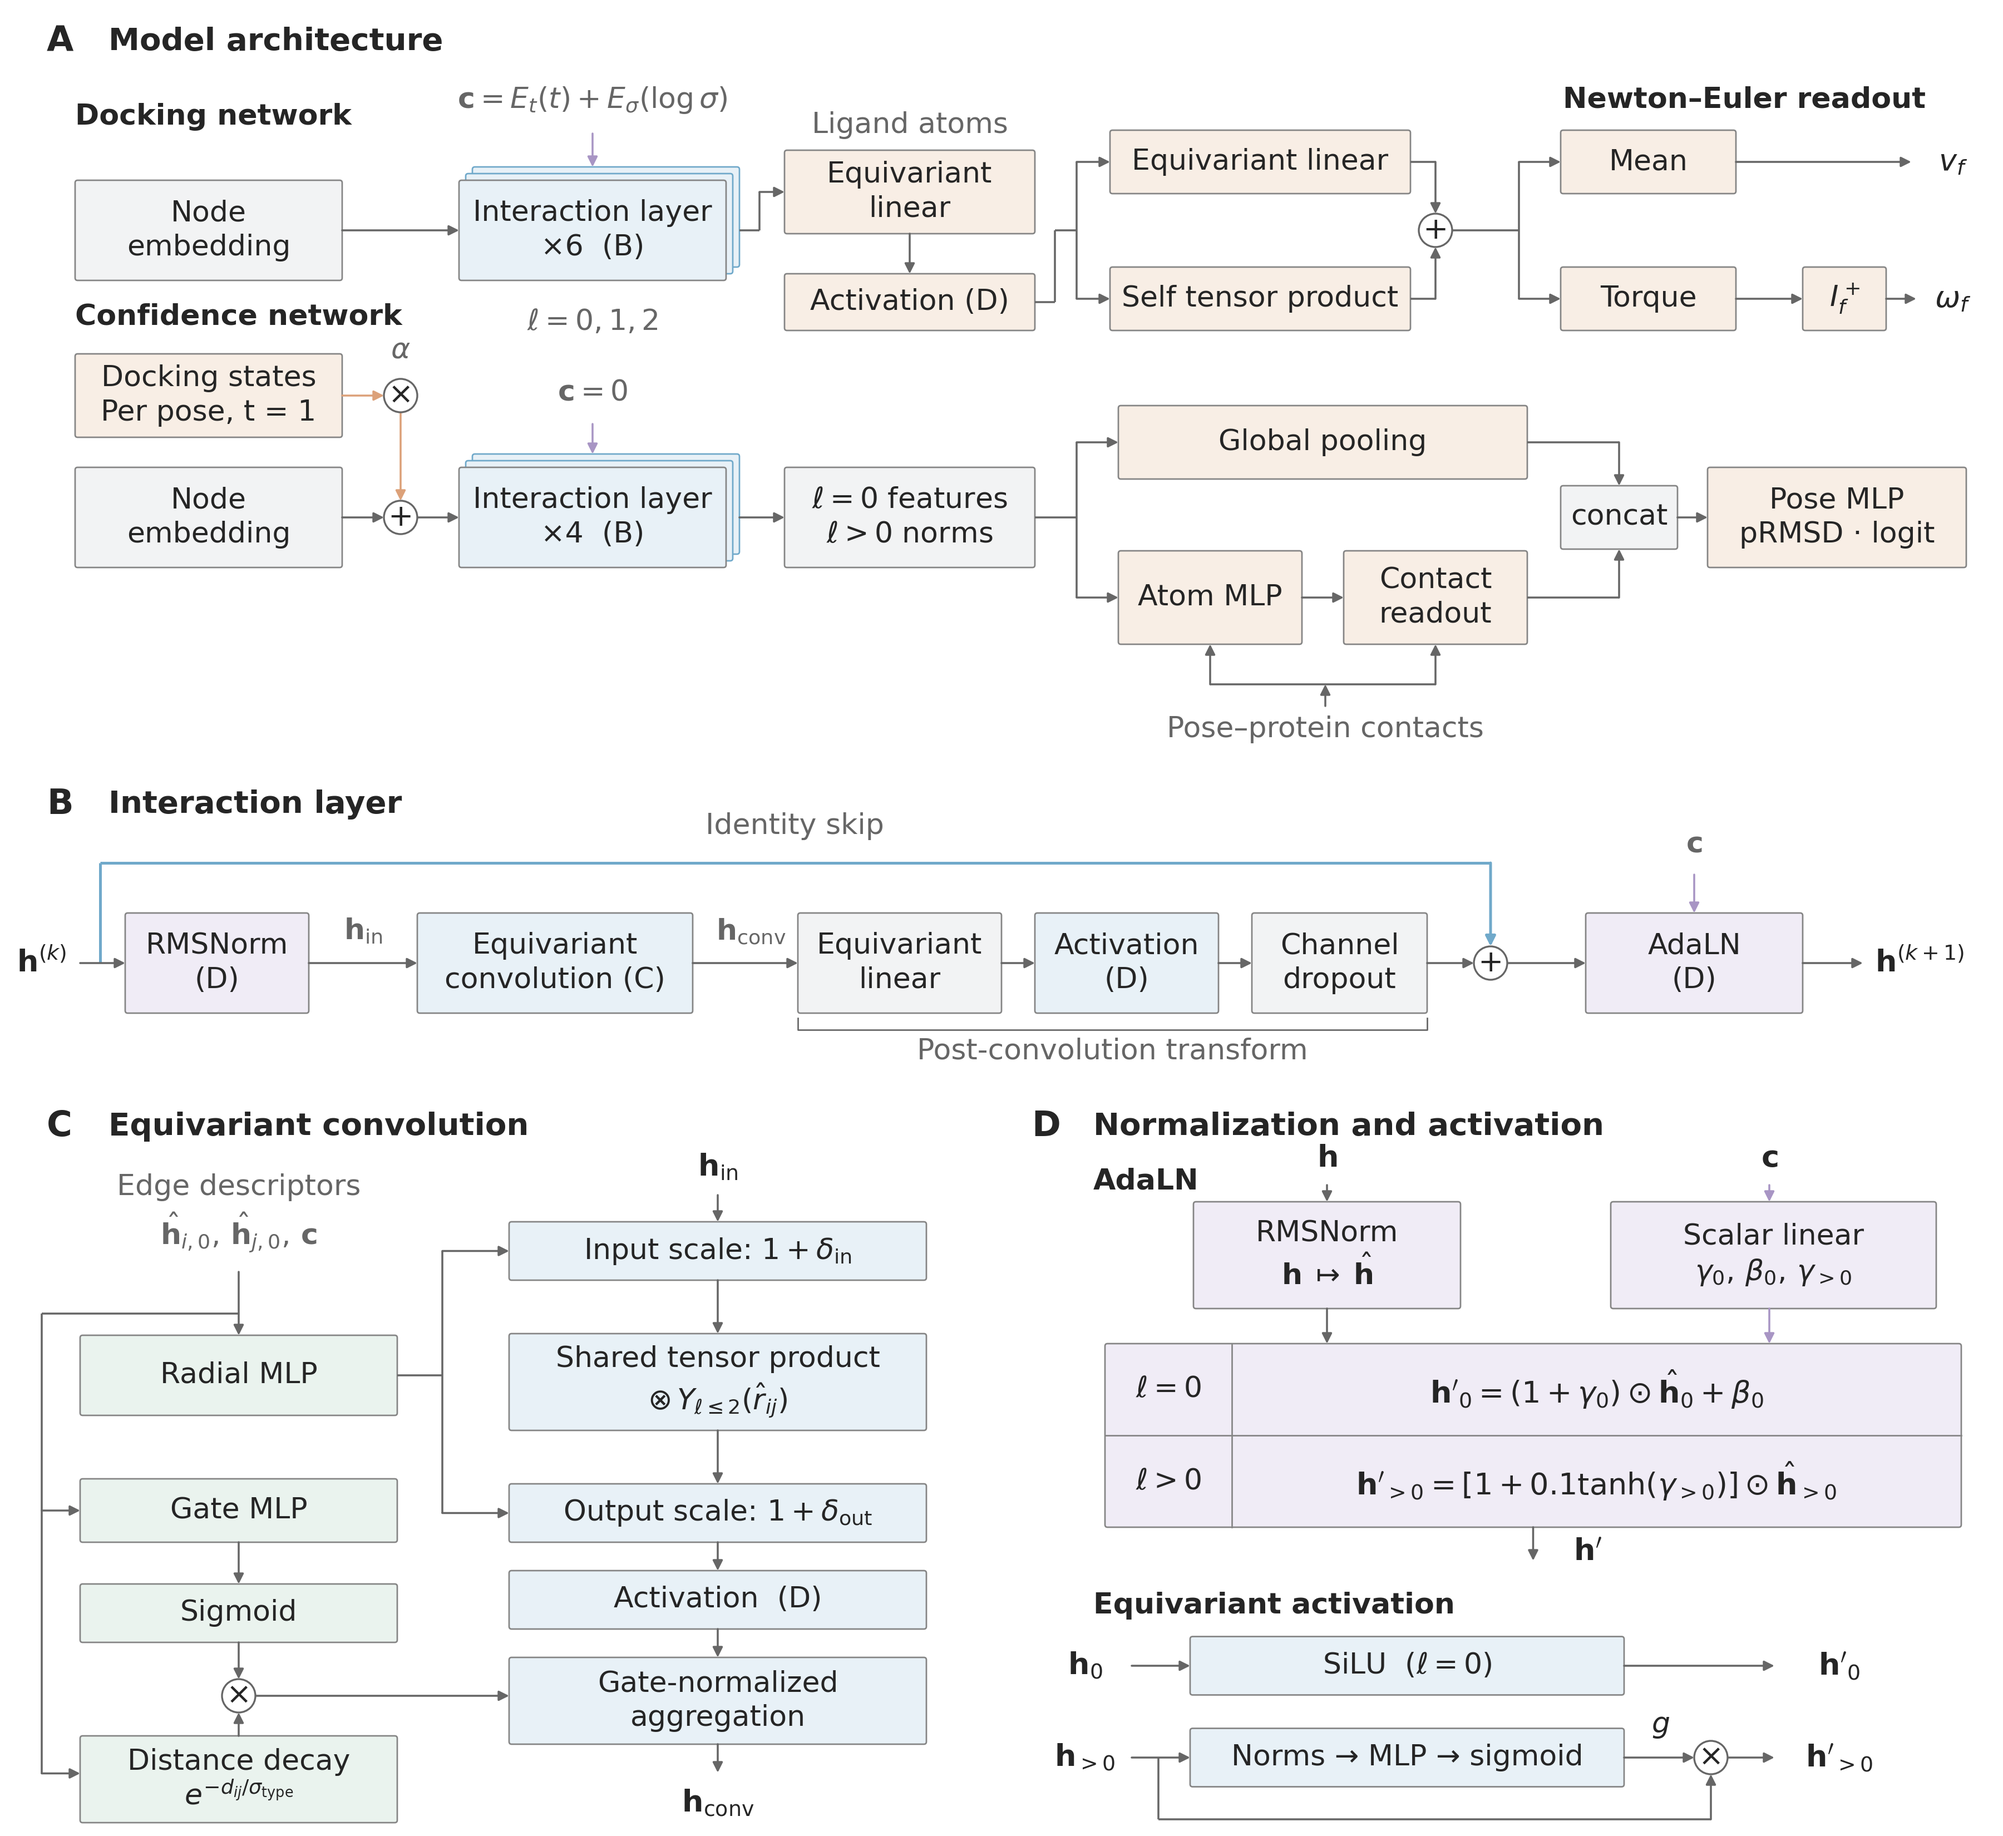
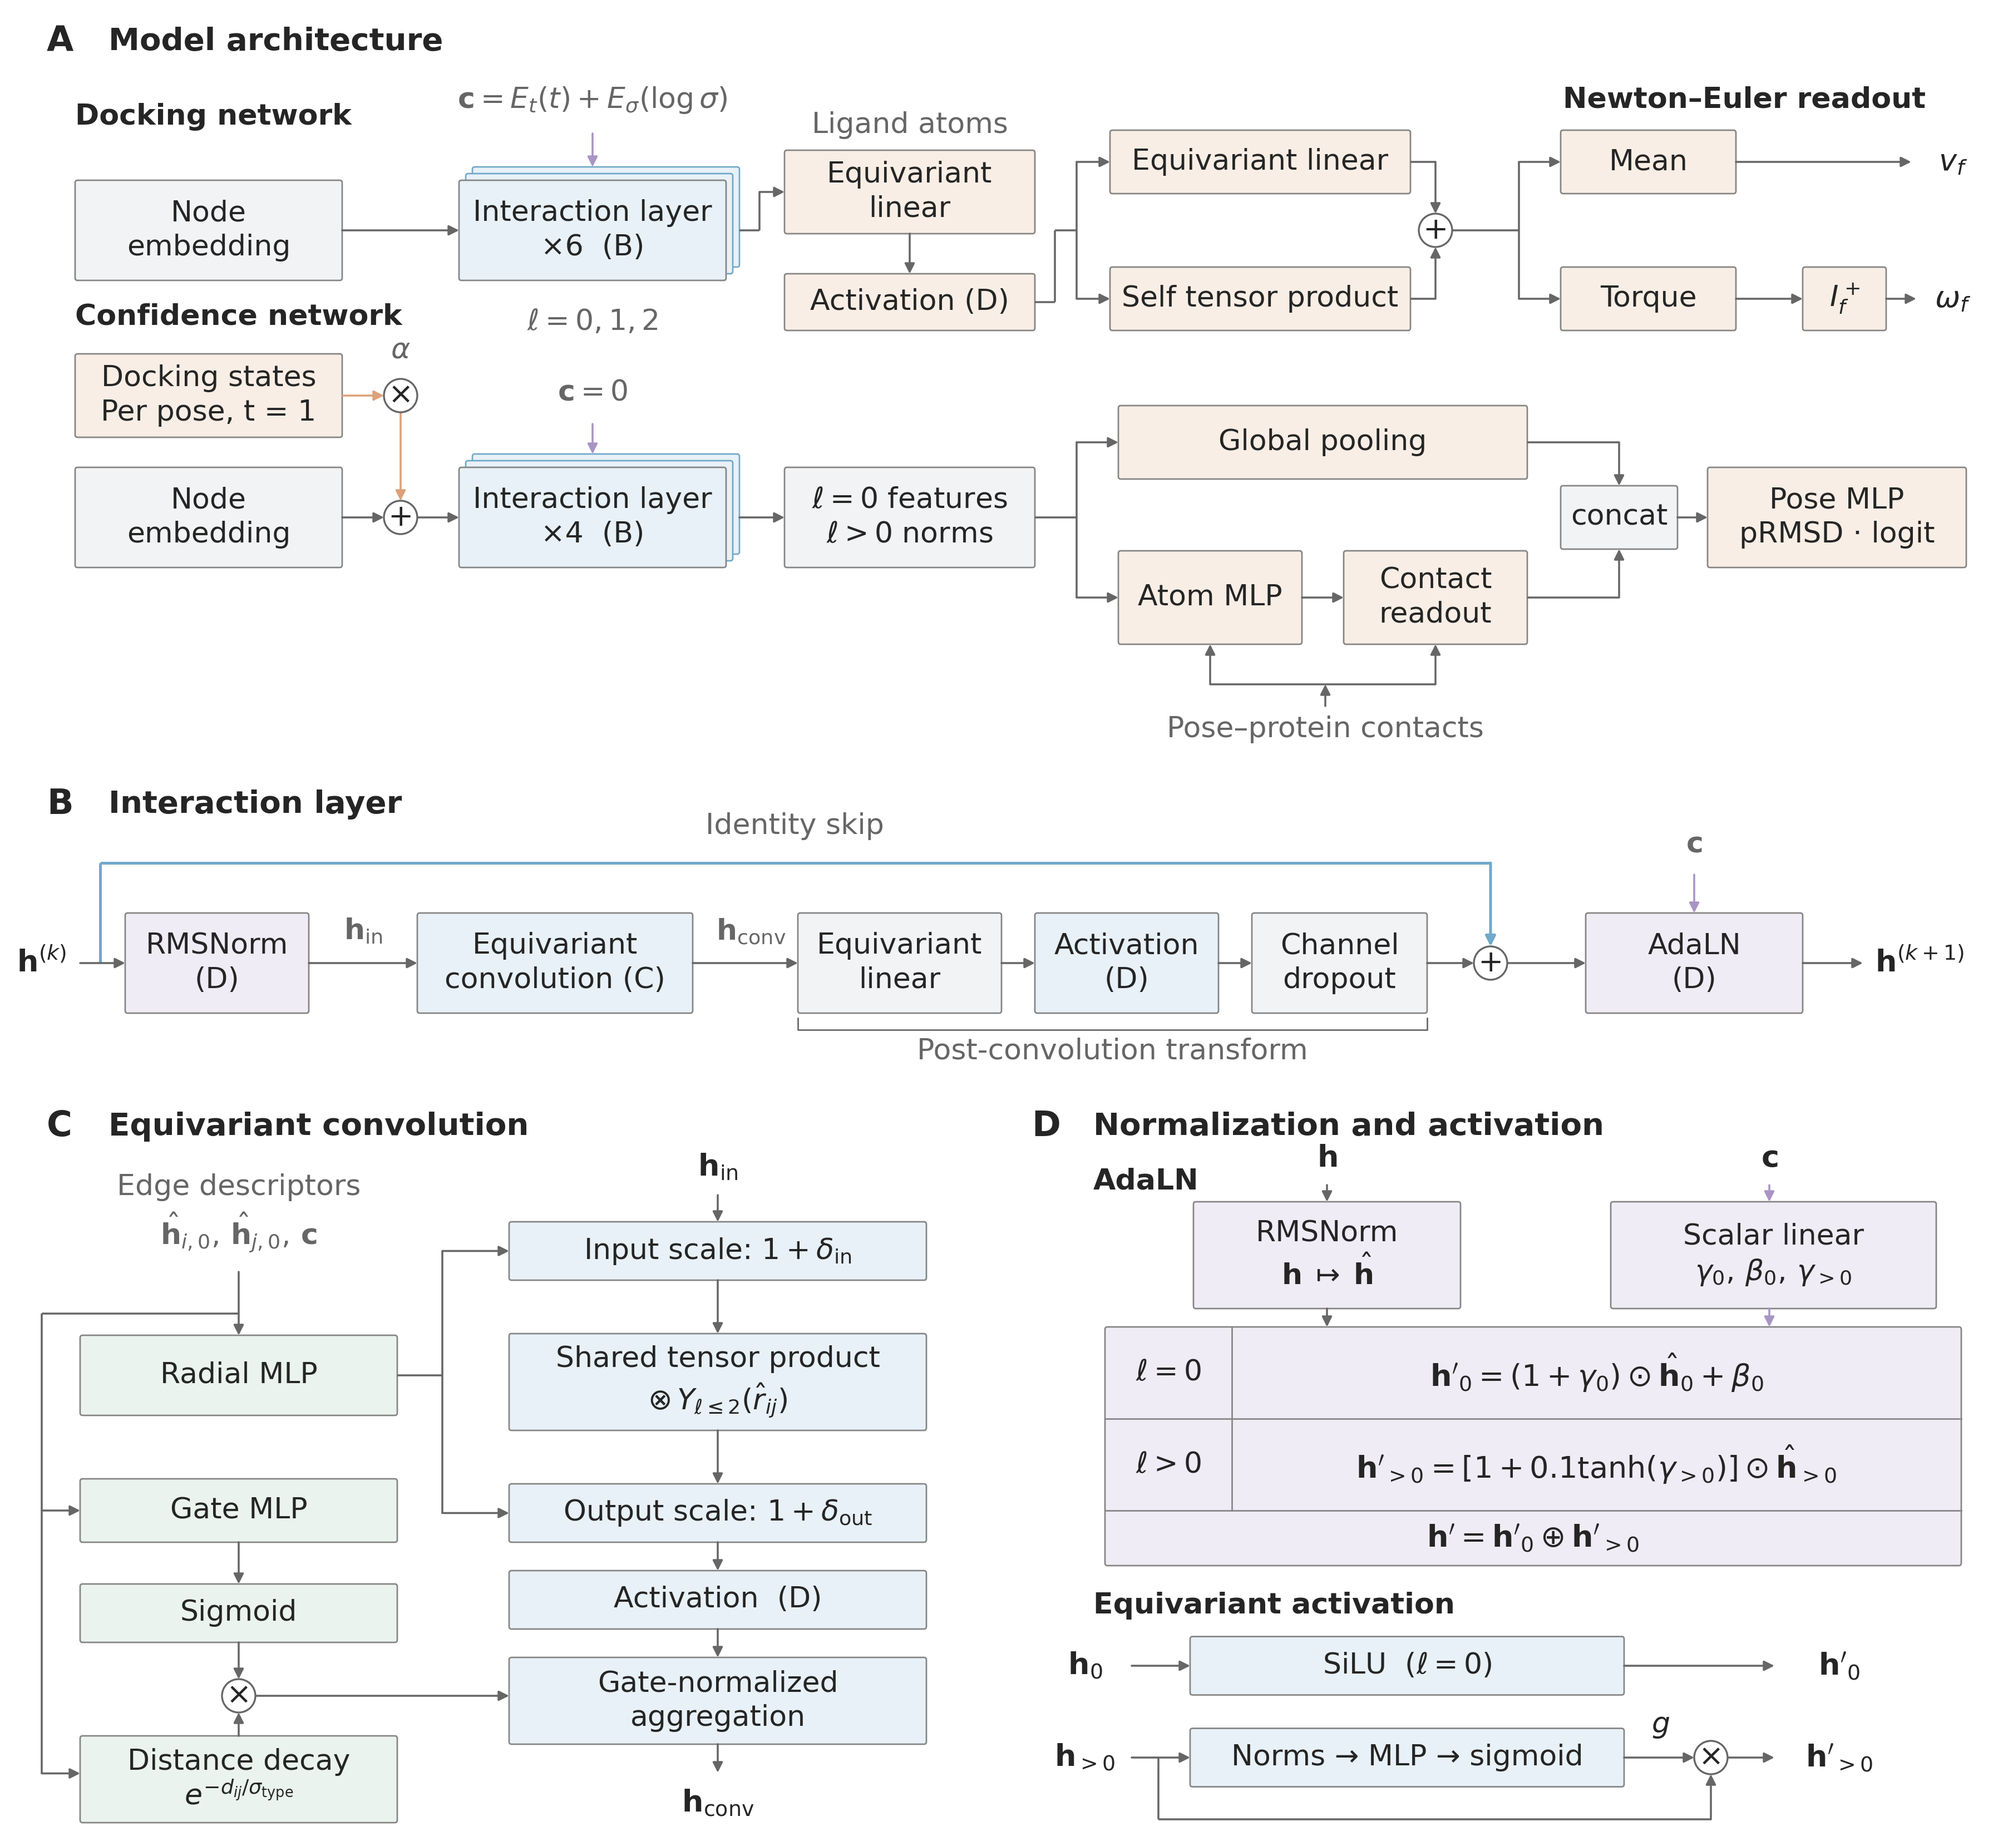
docs: clarify complete AdaLN output in panel D

diff --git a/benchmarks/figures/architecture.py b/benchmarks/figures/architecture.py
@@ -294,22 +294,23 @@ def operations_panel(c, s):
     c.block(7.15, 3.16, 1.60, 0.64, "RMSNorm\n" + r"$\mathbf{h}\;\mapsto\;\hat{\mathbf{h}}$", PALE_VIOLET)
     c.block(9.65, 3.16, 1.95, 0.64,
             "Scalar linear\n" + r"$\gamma_0,\,\beta_0,\,\gamma_{>0}$", PALE_VIOLET)
-    c.arrow([(7.95, 3.16), (7.95, 2.95)])
-    c.arrow([(10.60, 3.16), (10.60, 2.95)], color=VIOLET)
+    c.arrow([(7.95, 3.16), (7.95, 3.05)])
+    c.arrow([(10.60, 3.16), (10.60, 3.05)], color=VIOLET)
     # A shared boundary groups mutually exclusive degree rules, not serial stages.
-    c.box(6.62, 1.85, 5.13, 1.10, PALE_VIOLET)
-    c.ax.plot([6.62, 11.75], [2.40, 2.40], color="#858585", lw=0.65)
-    c.ax.plot([7.38, 7.38], [1.85, 2.95], color="#858585", lw=0.65)
+    c.box(6.62, 1.62, 5.13, 1.43, PALE_VIOLET)
+    c.ax.plot([6.62, 11.75], [2.50, 2.50], color="#858585", lw=0.65)
+    c.ax.plot([6.62, 11.75], [1.95, 1.95], color="#858585", lw=0.65)
+    c.ax.plot([7.38, 7.38], [1.95, 3.05], color="#858585", lw=0.65)
     for y, degree, formula in (
-        (2.40, r"$\ell=0$", r"$\mathbf{h}'_0=(1+\gamma_0)\odot\hat{\mathbf{h}}_0+\beta_0$"),
-        (1.85, r"$\ell>0$", r"$\mathbf{h}'_{>0}=[1+0.1\tanh(\gamma_{>0})]\odot\hat{\mathbf{h}}_{>0}$"),
+        (2.50, r"$\ell=0$", r"$\mathbf{h}'_0=(1+\gamma_0)\odot\hat{\mathbf{h}}_0+\beta_0$"),
+        (1.95, r"$\ell>0$", r"$\mathbf{h}'_{>0}=[1+0.1\tanh(\gamma_{>0})]\odot\hat{\mathbf{h}}_{>0}$"),
     ):
         label = c.text(7.00, y + 0.275, degree)
         equation = c.text(9.565, y + 0.275, formula, size=13)
         c.box_texts.extend(((label, (6.62, y, 0.76, 0.55)),
                             (equation, (7.38, y, 4.37, 0.55))))
-    c.arrow([(9.185, 1.85), (9.185, 1.65)])
-    c.text(9.51, 1.70, r"$\mathbf{h}'$", size=13)
+    output = c.text(9.185, 1.785, r"$\mathbf{h}'=\mathbf{h}'_0\oplus\mathbf{h}'_{>0}$", size=13)
+    c.box_texts.append((output, (6.62, 1.62, 5.13, 0.33)))
     c.text(6.55, 1.38, "Equivariant activation", bold=True, ha="left")
     ya, yb = 1.02, 0.47
     c.text(6.50, ya, r"$\mathbf{h}_0$", size=13)

diff --git a/docs/paper/ARCHITECTURE_FIGURE.md b/docs/paper/ARCHITECTURE_FIGURE.md
@@ -47,8 +47,9 @@ The radial-scale boxes show the residual scale factors 1 + δ_in and 1 + δ_out.
 own RMSNorm and condition-dependent scalar affine modulation or bounded
 non-scalar scaling. The two degree-specific equations occupy separately labeled
 ℓ = 0 and ℓ > 0 rows within one modulation box. Feature and conditioning
-streams enter from above, and the complete feature
-output leaves below, labeled beside its arrow. The activation schematic underneath
+streams enter from above. A common bottom row defines the complete output
+h′ = h′₀ ⊕ h′₍>₀₎, retaining both degree subsets in the output representation.
+The activation schematic underneath
 is a separate reusable operation, not a stage appended to AdaLN.
 The RMSNorm box defines h → hhat internally, leaving the connector to modulation
 clear. The scalar linear projection explicitly outputs γ₀, β₀ and γ₍>₀₎.
@@ -243,7 +244,10 @@ c through the conditioning projection, and both enter a common modulation box.
 The two labeled rows show the scale-and-shift rule for ℓ = 0 and the bounded
 1 + 0.1 tanh(γ) scale for ℓ > 0. They apply to separate degree classes,
 not sequentially to the same channels. The output h′ contains both degree
-classes; the projection lists the three modulation-parameter groups explicitly.
+classes, as shown in the common output row h′ = h′₀ ⊕ h′₍>₀₎. The ⊕ symbol
+denotes assembly of feature blocks in the existing irrep layout, not elementwise
+addition, an extra learned layer, or a sequential application of the two rules.
+The projection lists the three modulation-parameter groups explicitly.
 Normalized features follow two branches:
 
 - ℓ = 0: `h'_0 = (1 + gamma_0) * hhat_0 + beta_0`.
@@ -388,8 +392,9 @@ equivariance test. No model or checkpoint was changed.
 | D | Blockwise RMSNorm; scalar affine rule; bounded non-scalar scaling; scalar SiLU and norm-derived gates | AdaLN and activation are separate operations. ℓ=0 denotes 0e in this model. The two modulation rows act on different feature subsets in parallel. |
 
 Panel D was aligned so both activation input/output labels share the same
-horizontal anchors. The AdaLN output label now sits beside its terminal arrow,
-with separation from the activation heading. The hhat definition was moved
+horizontal anchors. The AdaLN output is defined inside a full-width footer
+below both modulation rows, with no dangling output arrow beside the separate
+activation heading. The hhat definition was moved
 inside the RMSNorm box, and the parallel condition-projection box has matching
 height. Its operations and formulas did not change.
 
